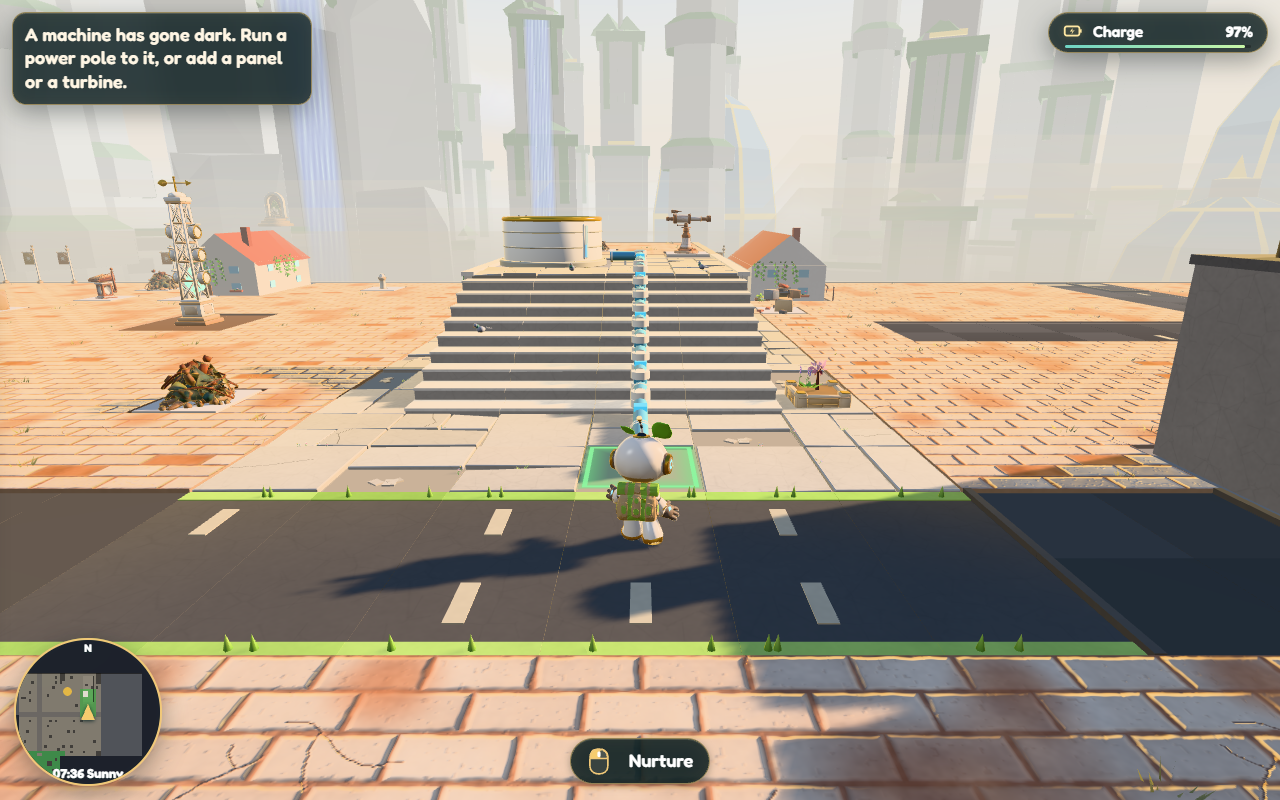
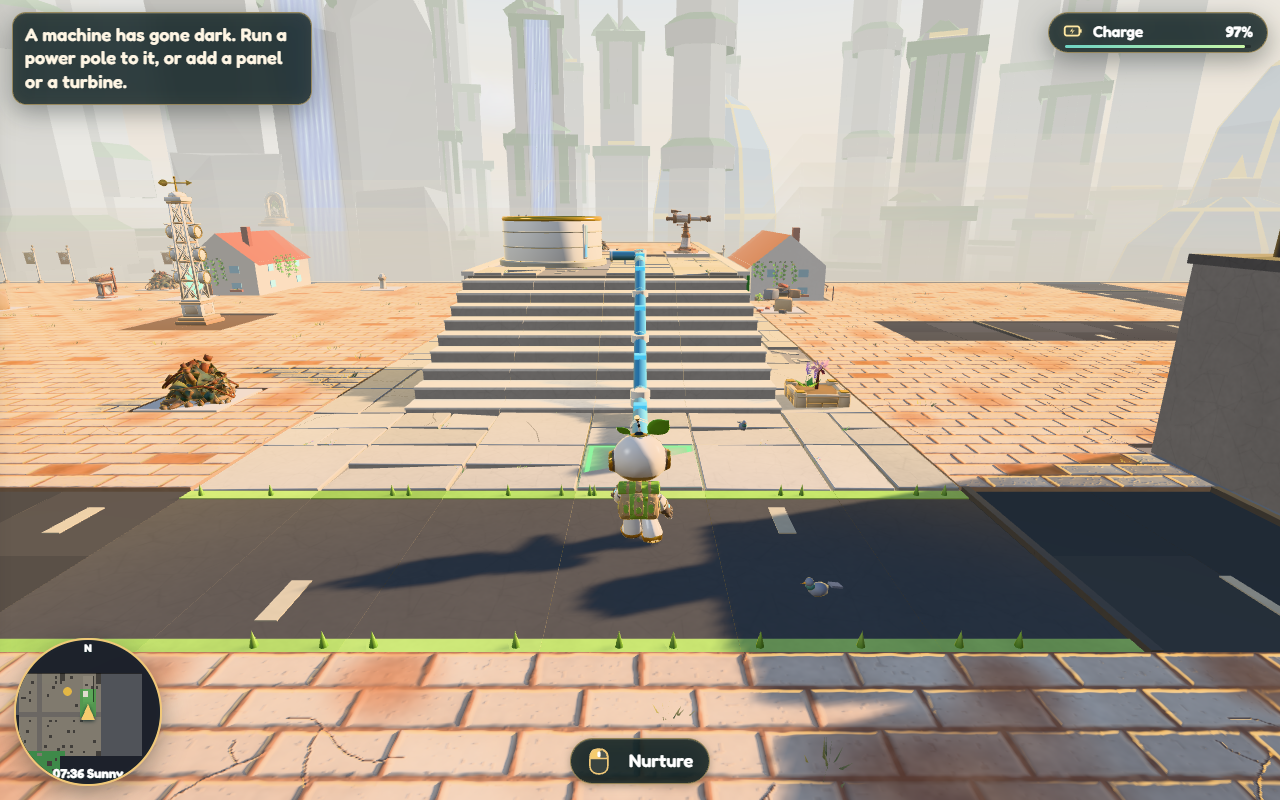
WIP E23.4.2: a pipe runs down a stair or ramp as one straight slope (paused; sight-glass tabs and one mid-flight collar still to fix)

diff --git a/src/rendering/PipeVisuals.ts b/src/rendering/PipeVisuals.ts
@@ -42,6 +42,48 @@ class Geo {
     }
   }
 
+  /**
+   * A tube between any two points (a run down a stair or ramp, sloping with it). Its rings stand square to the run,
+   * so a sloped stretch reads as one straight pipe.
+   */
+  slope(ax: number, ay: number, az: number, bx: number, by: number, bz: number, r: number, sides = PIPE.sides) {
+    const len = Math.hypot(bx - ax, by - ay, bz - az);
+    if (len < 1e-6) return;
+    const d = [(bx - ax) / len, (by - ay) / len, (bz - az) / len];
+    // side: level and square to the run; up: square to both (the run is never vertical here)
+    let sx = -d[2];
+    let sz = d[0];
+    const sl = Math.hypot(sx, sz) || 1;
+    sx /= sl;
+    sz /= sl;
+    const ux = -sz * d[1];
+    const uy = sz * d[0] - sx * d[2];
+    const uz = sx * d[1];
+    const base = this.pos.length / 3;
+    for (let i = 0; i <= sides; i++) {
+      const t = (i / sides) * Math.PI * 2;
+      const c = Math.cos(t);
+      const s = Math.sin(t);
+      const ox = c * ux + s * sx;
+      const oy = c * uy;
+      const oz = c * uz + s * sz;
+      this.pos.push(ax + ox * r, ay + oy * r, az + oz * r, bx + ox * r, by + oy * r, bz + oz * r);
+      this.nrm.push(ox, oy, oz, ox, oy, oz);
+    }
+    // wound so the outside faces out: check the first quad's face against its ring's outward offset
+    const p = this.pos;
+    const A = base * 3;
+    const e1 = [p[A + 3] - p[A], p[A + 4] - p[A + 1], p[A + 5] - p[A + 2]];
+    const e2 = [p[A + 6] - p[A], p[A + 7] - p[A + 1], p[A + 8] - p[A + 2]];
+    const n = [e1[1] * e2[2] - e1[2] * e2[1], e1[2] * e2[0] - e1[0] * e2[2], e1[0] * e2[1] - e1[1] * e2[0]];
+    const out = n[0] * this.nrm[A] + n[1] * this.nrm[A + 1] + n[2] * this.nrm[A + 2] > 0;
+    for (let i = 0; i < sides; i++) {
+      const q = base + i * 2;
+      if (out) this.idx.push(q, q + 1, q + 2, q + 1, q + 3, q + 2);
+      else this.idx.push(q, q + 2, q + 1, q + 1, q + 2, q + 3);
+    }
+  }
+
   /** A short upright drum (a joint at a corner or junction, or a cap). */
   drum(x: number, z: number, y0: number, y1: number, r: number, sides = PIPE.sides) {
     const base = this.pos.length / 3;
@@ -96,6 +138,64 @@ class Geo {
     return m;
   }
 }
+
+/** Where a point lies on a stair or ramp: its ramp, how many treads a tile of it has, and how far up it (0…1). */
+function onRamp(px: number, pz: number) {
+  const x = Math.floor(px);
+  const z = Math.floor(pz);
+  const hit = rampAt(x, z);
+  if (!hit) return undefined;
+  const steps = hit.ramp.kind === 'stair' ? 2 : 3;
+  const fx = px - x;
+  const fz = pz - z;
+  const u = hit.ramp.dir === 's' ? fz : hit.ramp.dir === 'n' ? 1 - fz : hit.ramp.dir === 'e' ? fx : 1 - fx;
+  return { hit, steps, u, f: (hit.i + u) / hit.n };
+}
+
+/** The top of what lies under a point (world y): a terrace tile's slab, or the tread of a stair's or ramp's step. */
+export function pipeSurface(sim: Sim, px: number, pz: number): number {
+  const base = sim.grid.layer(GROUND)!.height;
+  const t = sim.grid.peek(GROUND, Math.floor(px), Math.floor(pz));
+  const on = t?.ramp ? onRamp(px, pz) : undefined;
+  if (on) {
+    // drawn as `steps` treads from its low end to its high end (ChunkRenderer.terrace), coping on top
+    const { hit, steps, u } = on;
+    const k = Math.min(steps - 1, Math.max(0, Math.floor(u * steps)));
+    const lv = hit.ramp.from + ((hit.ramp.to - hit.ramp.from) * (hit.i + (k + 0.5) / steps)) / hit.n;
+    return base + levelY(lv) + PIPE.treadTop;
+  }
+  return base + levelY(t?.level ?? 1) + SLAB_TOP;
+}
+
+/**
+ * The pipe's centre over a point. On flat ground and across a stair: `clear` above what lies under it. Along a stair
+ * or ramp: one straight slope, the way a pipe runs down real steps, that just clears the nosing of every tread (the
+ * line through the treads' middles, raised half a step) and levels off to meet the ground at the top. At the foot it
+ * meets the ground with one short drop (drawn where the tiles meet).
+ */
+export function pipeHeight(sim: Sim, px: number, pz: number): number {
+  const t = sim.grid.peek(GROUND, Math.floor(px), Math.floor(pz));
+  const on = t?.ramp ? onRamp(px, pz) : undefined;
+  if (!on) return pipeSurface(sim, px, pz) + PIPE.clear + PIPE.r;
+  const { hit, steps, f } = on;
+  const { from, to } = hit.ramp;
+  const base = sim.grid.layer(GROUND)!.height;
+  const half = 0.5 / (steps * hit.n); // half a tread, as a share of the whole ramp
+  const lv = from + (to - from) * (f + (to > from ? half : -half));
+  const hi = Math.max(from, to);
+  // at the top it meets the ground there: never above the higher of that ground and the top tread
+  const cap = Math.max(levelY(hi) + SLAB_TOP, levelY(hi - Math.abs(to - from) * half) + PIPE.treadTop);
+  return base + Math.min(levelY(lv) + PIPE.treadTop, cap) + PIPE.clear + PIPE.r;
+}
+
+/** Does a run from (ax, az) toward (bx, bz) go up or down a stair or ramp (not across it)? */
+function alongRamp(px: number, pz: number, alongX: boolean): boolean {
+  const on = onRamp(px, pz);
+  return !!on && (on.hit.ramp.dir === 'e' || on.hit.ramp.dir === 'w') === alongX;
+}
+
+/** Pipe sizes, for the tests. */
+export const PIPE_SIZE = PIPE;
 
 /**
  * E23.4.2.2 (#424): pipes in the world. Each pipe tile is a pale-blue tube from its middle to every side it joins
@@ -157,57 +257,34 @@ export class PipeVisuals {
     }
   }
 
-  /** The top of what lies under a point (world y): a terrace tile's slab, or the tread of a stair's or ramp's step. */
   private surface(px: number, pz: number): number {
-    const x = Math.floor(px);
-    const z = Math.floor(pz);
-    const base = this.sim.grid.layer(GROUND)!.height;
-    const t = this.sim.grid.peek(GROUND, x, z);
-    const hit = t?.ramp ? rampAt(x, z) : undefined;
-    if (hit) {
-      // drawn as `steps` treads from its low end to its high end (ChunkRenderer.terrace), coping on top
-      const steps = hit.ramp.kind === 'stair' ? 2 : 3;
-      const fx = px - x;
-      const fz = pz - z;
-      const u = hit.ramp.dir === 's' ? fz : hit.ramp.dir === 'n' ? 1 - fz : hit.ramp.dir === 'e' ? fx : 1 - fx;
-      const k = Math.min(steps - 1, Math.max(0, Math.floor(u * steps)));
-      const lv = hit.ramp.from + ((hit.ramp.to - hit.ramp.from) * (hit.i + (k + 0.5) / steps)) / hit.n;
-      return base + levelY(lv) + PIPE.treadTop;
-    }
-    return base + levelY(t?.level ?? 1) + SLAB_TOP;
+    return pipeSurface(this.sim, px, pz);
   }
 
-  /** The pipe's centre over a point: `clear` above what lies under it. */
   private pipeY(px: number, pz: number): number {
-    return this.surface(px, pz) + PIPE.clear + PIPE.r;
+    return pipeHeight(this.sim, px, pz);
   }
 
   /**
-   * A half-run from a tile's middle (a) to its edge (b), cut where the ground under it steps (a stair's or a ramp's
-   * treads along the run), each piece at its own height.
+   * A half-run from a tile's middle (a) to its edge (b) as straight stretches, each with its height at both ends:
+   * one level stretch, or (up or down a stair or ramp) a few that follow its slope. Heights are read just inside the
+   * tile (its edge belongs to the next one).
    */
-  private pieces(x: number, z: number, ax: number, az: number, bx: number, bz: number): { a: [number, number]; b: [number, number]; y: number }[] {
-    const cuts = [0, 1];
-    const t = this.sim.grid.peek(GROUND, x, z);
-    const hit = t?.ramp ? rampAt(x, z) : undefined;
+  private pieces(x: number, z: number, ax: number, az: number, bx: number, bz: number): { a: [number, number]; b: [number, number]; ya: number; yb: number; sloped: boolean }[] {
     const alongX = Math.abs(bx - ax) > Math.abs(bz - az);
-    if (hit && (hit.ramp.dir === 'e' || hit.ramp.dir === 'w') === alongX) {
-      const steps = hit.ramp.kind === 'stair' ? 2 : 3;
-      const a = alongX ? ax : az;
-      const b = alongX ? bx : bz;
-      const start = alongX ? x : z;
-      for (let j = 1; j < steps; j++) {
-        const c = start + j / steps;
-        const f = (c - a) / (b - a);
-        if (f > 1e-6 && f < 1 - 1e-6) cuts.push(f);
-      }
+    const inside = (px: number, pz: number): [number, number] => [Math.min(x + 1 - 1e-4, Math.max(x + 1e-4, px)), Math.min(z + 1 - 1e-4, Math.max(z + 1e-4, pz))];
+    const yAt = (px: number, pz: number) => this.pipeY(...inside(px, pz));
+    if (!this.sim.grid.peek(GROUND, x, z)?.ramp || !alongRamp(...inside(ax, az), alongX)) {
+      const y = yAt((ax + bx) / 2, (az + bz) / 2);
+      return [{ a: [ax, az], b: [bx, bz], ya: y, yb: y, sloped: false }];
     }
-    cuts.sort((p, q) => p - q);
-    const out: { a: [number, number]; b: [number, number]; y: number }[] = [];
-    for (let i = 0; i + 1 < cuts.length; i++) {
-      const pa: [number, number] = [ax + (bx - ax) * cuts[i], az + (bz - az) * cuts[i]];
-      const pb: [number, number] = [ax + (bx - ax) * cuts[i + 1], az + (bz - az) * cuts[i + 1]];
-      out.push({ a: pa, b: pb, y: this.pipeY((pa[0] + pb[0]) / 2, (pa[1] + pb[1]) / 2) });
+    // the slope can level off part-way (the top of a flight): a few stretches follow it closely
+    const N = 4;
+    const out: { a: [number, number]; b: [number, number]; ya: number; yb: number; sloped: boolean }[] = [];
+    for (let i = 0; i < N; i++) {
+      const pa: [number, number] = [ax + ((bx - ax) * i) / N, az + ((bz - az) * i) / N];
+      const pb: [number, number] = [ax + ((bx - ax) * (i + 1)) / N, az + ((bz - az) * (i + 1)) / N];
+      out.push({ a: pa, b: pb, ya: yAt(pa[0], pa[1]), yb: yAt(pb[0], pb[1]), sloped: true });
     }
     return out;
   }
@@ -239,24 +316,22 @@ export class PipeVisuals {
       const sides: [number, number][] = [...p.links(x, z).map(([nx, nz]) => [nx - x, nz - z] as [number, number]), ...p.machineLinks(x, z).map((l) => [l.dx, l.dz] as [number, number])];
       const atMiddle: number[] = [];
       for (const [dx, dz] of sides) {
-        // from the middle to the tile's edge, following the ground's steps
+        // from the middle to the tile's edge: level, or sloping with a stair or ramp as one straight pipe
         const run = this.pieces(x, z, cx, cz, cx + dx * 0.5, cz + dz * 0.5);
-        atMiddle.push(run[0].y);
-        run.forEach((s, i) => {
-          tube.tube(s.a[0], s.a[1], s.b[0], s.b[1], s.y, PIPE.r);
-          // a little stick holding it up, in the middle of each stretch
-          const mx = (s.a[0] + s.b[0]) / 2;
-          const mz = (s.a[1] + s.b[1]) / 2;
+        atMiddle.push(run[0].ya);
+        for (const s of run) {
+          if (s.sloped) tube.slope(s.a[0], s.ya, s.a[1], s.b[0], s.yb, s.b[1], PIPE.r);
+          else tube.tube(s.a[0], s.a[1], s.b[0], s.b[1], s.ya, PIPE.r);
+        }
+        // a little stick holding it up, in the middle of the half-run
+        {
+          const mx = cx + dx * 0.25;
+          const mz = cz + dz * 0.25;
           const ground = this.surface(mx, mz);
-          const top = s.y - PIPE.r;
+          const top = this.pipeY(mx, mz) - PIPE.r;
           trim.box(mx, (ground + top) / 2, mz, PIPE.stick, top - ground, PIPE.stick);
           trim.box(mx, ground + 0.008, mz, PIPE.foot, 0.016, PIPE.foot);
-          const next = run[i + 1];
-          if (next && Math.abs(next.y - s.y) > 1e-4) {
-            const up = next.y > s.y ? 1 : -1; // along the run toward the higher piece
-            this.riser(tube, trim, s.b[0], s.b[1], dx * up, dz * up, Math.min(s.y, next.y), Math.max(s.y, next.y));
-          }
-        });
+        }
         // where it meets a neighbouring pipe on lower ground (a terrace wall, a step at the tile's edge): the higher
         // tile draws the upright between the two
         const last = run[run.length - 1];
@@ -264,11 +339,14 @@ export class PipeVisuals {
           const ex = cx + dx * 0.5;
           const ez = cz + dz * 0.5;
           const ny = this.pipeY(ex + dx * 0.01, ez + dz * 0.01);
-          if (ny < last.y - 1e-4) this.riser(tube, trim, ex, ez, -dx, -dz, ny, last.y);
+          if (ny < last.yb - 1e-4) this.riser(tube, trim, ex, ez, -dx, -dz, ny, last.yb);
         }
-        const fx = cx + dx * 0.47;
-        const fz = cz + dz * 0.47;
-        trim.tube(fx - dx * PIPE.flangeLen * 0.5, fz - dz * PIPE.flangeLen * 0.5, fx + dx * PIPE.flangeLen * 0.5, fz + dz * PIPE.flangeLen * 0.5, last.y, PIPE.flange);
+        // a flange where tiles join (none along a slope: rings stacked down a flight read as clutter)
+        if (!last.sloped) {
+          const fx = cx + dx * 0.47;
+          const fz = cz + dz * 0.47;
+          trim.tube(fx - dx * PIPE.flangeLen * 0.5, fz - dz * PIPE.flangeLen * 0.5, fx + dx * PIPE.flangeLen * 0.5, fz + dz * PIPE.flangeLen * 0.5, last.yb, PIPE.flange);
+        }
       }
       if (!atMiddle.length) {
         // a lone tile: a capped stub on its stick
@@ -339,7 +417,7 @@ export class PipeVisuals {
     const cx = x + 0.5;
     const cz = z + 0.5;
     const sides: [number, number][] = [...p.links(x, z).map(([nx, nz]) => [nx - x, nz - z] as [number, number]), ...p.machineLinks(x, z).map((l) => [l.dx, l.dz] as [number, number])];
-    const ys = sides.map(([dx, dz]) => this.pieces(x, z, cx, cz, cx + dx * 0.5, cz + dz * 0.5)[0].y);
+    const ys = sides.map(([dx, dz]) => this.pieces(x, z, cx, cz, cx + dx * 0.5, cz + dz * 0.5)[0].ya);
     return ys.length ? ys : [this.pipeY(cx, cz)];
   }
 

diff --git a/tests/pipe-visuals.test.ts b/tests/pipe-visuals.test.ts
@@ -1,0 +1,81 @@
+import { describe, expect, it } from 'vitest';
+import { createInitialState, GROUND } from '../src/core/GameState';
+import { levelY, rampAt } from '../src/core/Height';
+import { OLD_CITY } from '../src/data/oldcity';
+import { Sim } from '../src/gameplay/Sim';
+import { PIPE_SIZE, pipeHeight, pipeSurface } from '../src/rendering/PipeVisuals';
+
+/** Points along the middle of a ramp, from just before its foot to just past its top, every 1 cm. */
+function along(x: number, z: number) {
+  const { ramp } = rampAt(x, z)!;
+  const alongZ = ramp.dir === 'n' || ramp.dir === 's';
+  const len = alongZ ? ramp.d : ramp.w;
+  const mid = alongZ ? ramp.x + ramp.w / 2 : ramp.z + ramp.d / 2;
+  const start = alongZ ? ramp.z : ramp.x;
+  const pts: [number, number][] = [];
+  for (let s = 0.005; s < len; s += 0.01) {
+    const c = start + s;
+    pts.push(alongZ ? [mid, c] : [c, mid]);
+  }
+  return { ramp, pts };
+}
+
+describe('E23.4.2: a pipe down a stair runs as one straight slope', () => {
+  const sim = new Sim(createInitialState(7));
+  // the park's stairs down to the beach, and every other stair and ramp in the Old City that is ground here
+  const flights: [number, number][] = [[7, 14]];
+
+  it('clears every tread (its nosing too) by at least the flat gap, all the way down', () => {
+    for (const [x, z] of flights) {
+      const { pts } = along(x, z);
+      expect(pts.length).toBeGreaterThan(50);
+      for (const [px, pz] of pts) {
+        const gap = pipeHeight(sim, px, pz) - PIPE_SIZE.r - pipeSurface(sim, px, pz);
+        expect(gap, `${px.toFixed(2)},${pz.toFixed(2)}`).toBeGreaterThanOrEqual(PIPE_SIZE.clear - 1e-6);
+      }
+    }
+  });
+
+  it('has no steps of its own on the flight: it climbs smoothly, never faster than the stair, never back down', () => {
+    for (const [x, z] of flights) {
+      const { ramp, pts } = along(x, z);
+      const alongZ = ramp.dir === 'n' || ramp.dir === 's';
+      const len = alongZ ? ramp.d : ramp.w;
+      const pitch = (Math.abs(levelY(ramp.to) - levelY(ramp.from)) / len) * 1.0001; // height per tile along the flight
+      const ys = pts.map(([px, pz]) => pipeHeight(sim, px, pz));
+      const rising = ys[ys.length - 1] > ys[0];
+      for (let i = 1; i < ys.length; i++) {
+        const dy = ys[i] - ys[i - 1];
+        expect(Math.abs(dy), `step at ${i}`).toBeLessThanOrEqual(pitch * 0.01 + 1e-6); // no riser inside the flight
+        expect(rising ? dy : -dy).toBeGreaterThanOrEqual(-1e-9); // one way only
+      }
+      // and the treads under it do step (this is a real stair, not a ramp drawn smooth)
+      const ground = pts.map(([px, pz]) => pipeSurface(sim, px, pz));
+      expect(ground.some((g, i) => i > 0 && Math.abs(g - ground[i - 1]) > 0.02)).toBe(true);
+      expect(OLD_CITY.levelHeight).toBeGreaterThan(0);
+    }
+  });
+
+  it('meets the ground at the top of the flight with no drop, and at the foot with one short one', () => {
+    for (const [x, z] of flights) {
+      const { ramp } = along(x, z);
+      const alongZ = ramp.dir === 'n' || ramp.dir === 's';
+      const mid = alongZ ? ramp.x + ramp.w / 2 : ramp.z + ramp.d / 2;
+      // the cells just beyond each end of the flight
+      const startEdge = alongZ ? ramp.z : ramp.x;
+      const endEdge = startEdge + (alongZ ? ramp.d : ramp.w);
+      const at = (c: number): [number, number] => (alongZ ? [mid, c] : [c, mid]);
+      // the ground at both ends exists (as it does once its chunk loads in the game)
+      for (const c of [startEdge - 0.01, endEdge + 0.01]) expect(sim.grid.get(GROUND, Math.floor(at(c)[0]), Math.floor(at(c)[1]))).toBeDefined();
+      const fromSide = pipeHeight(sim, ...at(startEdge - 0.01));
+      const fromEnd = pipeHeight(sim, ...at(startEdge + 0.01));
+      const toEnd = pipeHeight(sim, ...at(endEdge - 0.01));
+      const toSide = pipeHeight(sim, ...at(endEdge + 0.01));
+      const [top, topRamp, foot, footRamp] = ramp.to > ramp.from ? [toSide, toEnd, fromSide, fromEnd] : [fromSide, fromEnd, toSide, toEnd];
+      expect(Math.abs(topRamp - top)).toBeLessThan(1e-6); // levels off into the ground above: no drop at the top
+      const drop = footRamp - foot;
+      expect(drop).toBeGreaterThanOrEqual(0); // at the foot, just over the first tread…
+      expect(drop).toBeLessThan(0.25); // …a short drop to the ground below, not a wall
+    }
+  });
+});

diff --git a/vite.config.ts b/vite.config.ts
@@ -29,7 +29,7 @@ const QUICK = [
   // E23.9: the story
   'journal', 'keepers-friends', 'keepers-arcs', 'keepers-tally', 'keepers-crops',
   // E23.4: the water network
-  'water-levels', 'water-fade', 'water-pipes', 'water-desal',
+  'water-levels', 'water-fade', 'water-pipes', 'water-desal', 'pipe-visuals',
   // E23.5: the farm
   'farm-items', 'farm-planters', 'farm-compost',
   // E23.12: the Lucky Cat's rewards in the new loop (E23.1.4's one-meter check is tests/e2e/hud-one-meter.e2e.mjs)
